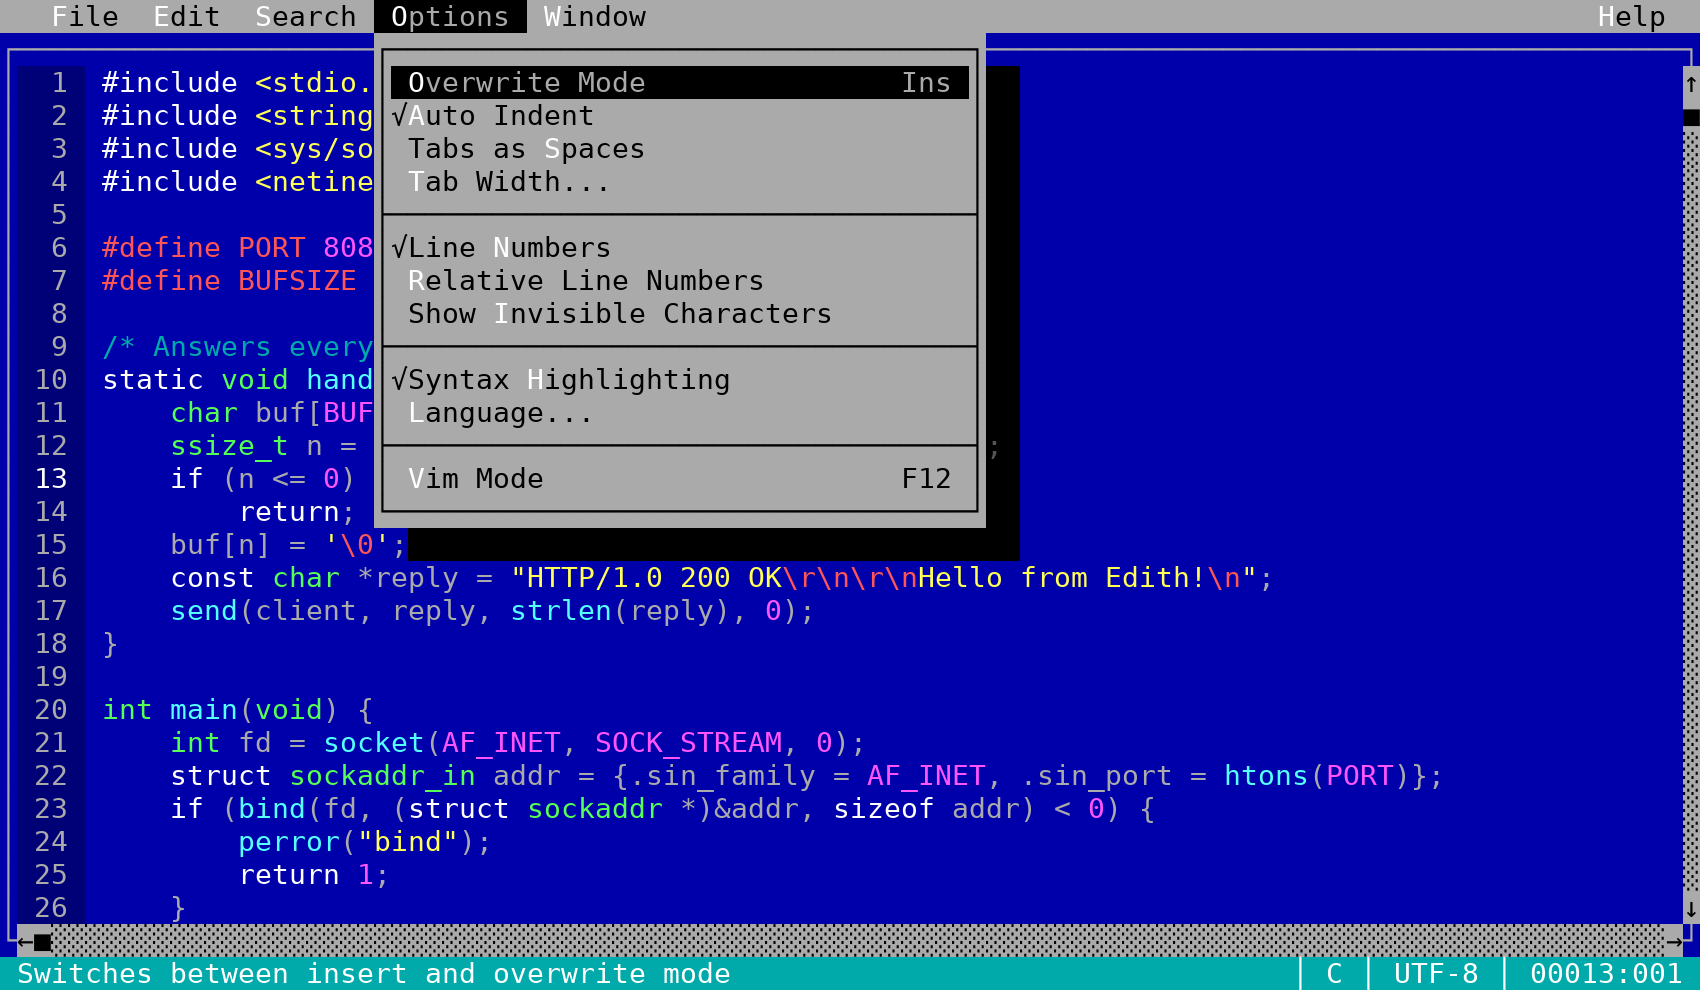
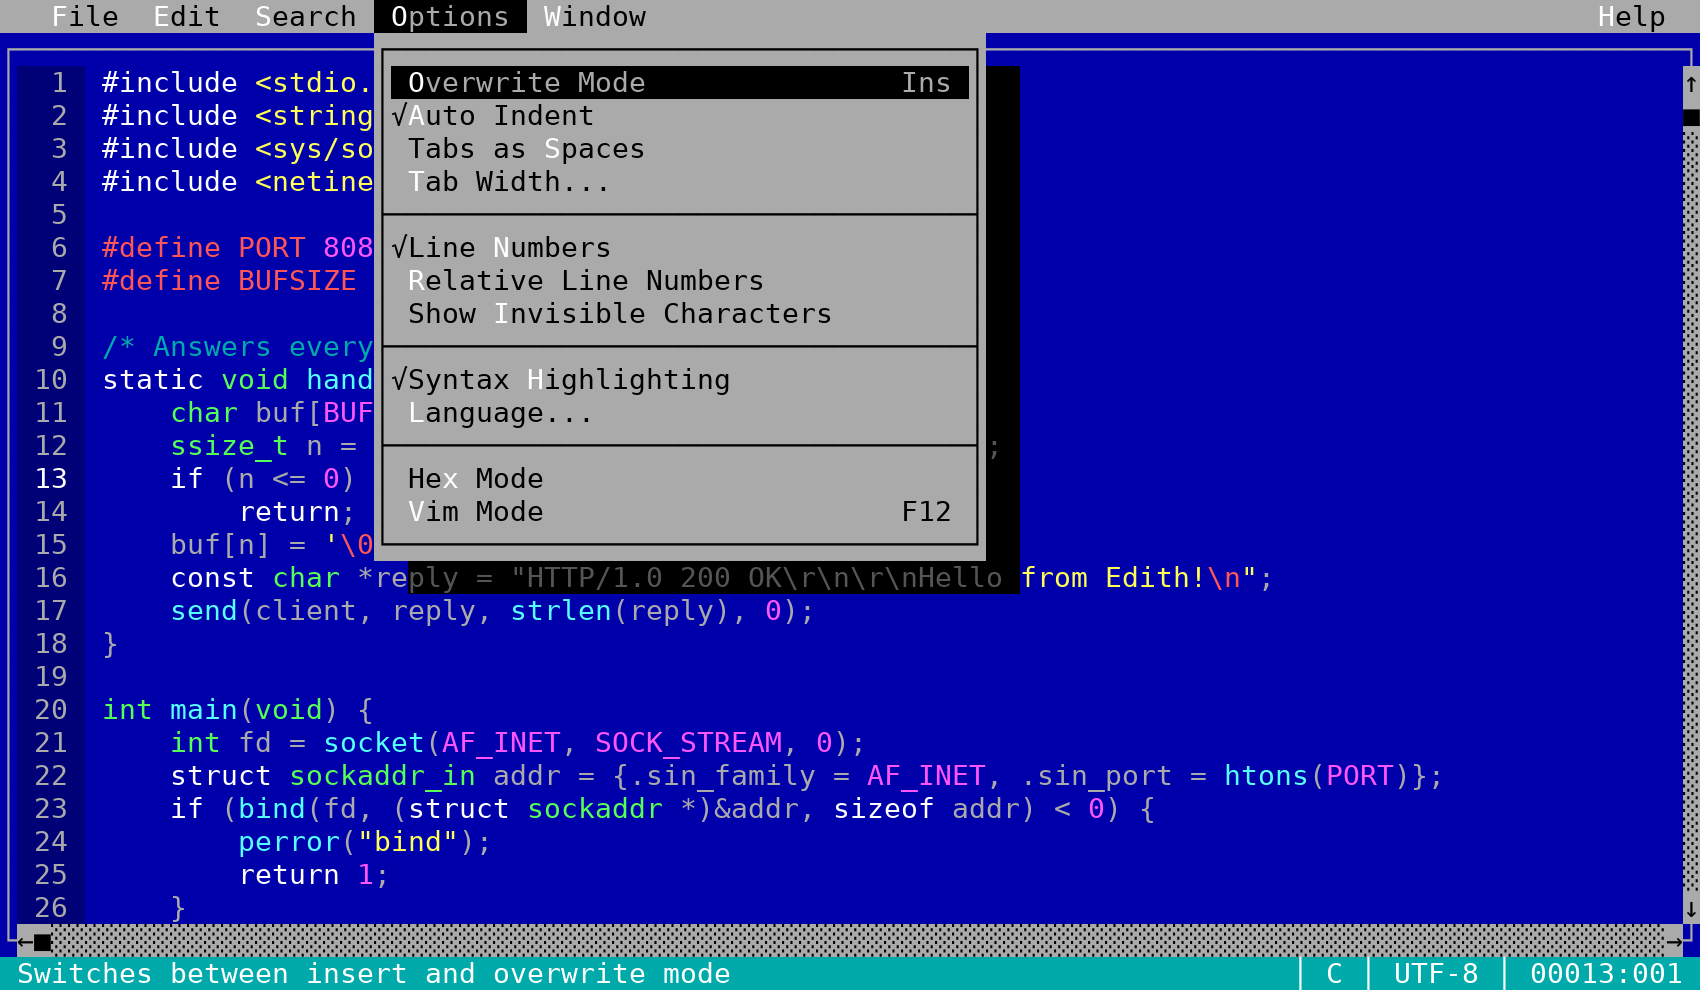
Version 1.3.0
Screenshot of the Options menu and the demo video with Hex Mode.

Changed region(s): [[0.2182, 0.4545, 0.6235, 0.6061]]

diff --git a/site/index.html b/site/index.html
@@ -225,7 +225,7 @@
       </p>
       <div class="actions">
         <a class="button primary" href="#install">Install</a>
-        <a class="button" href="https://github.com/dlehmann/edith/releases/latest">Download 1.2.0</a>
+        <a class="button" href="https://github.com/dlehmann/edith/releases/latest">Download 1.3.0</a>
         <a class="button" href="https://github.com/dlehmann/edith">Source code</a>
       </div>
     </div>
@@ -353,13 +353,13 @@
         <div class="box">
           <h3>Any Linux</h3>
           <p>The static binary runs on every distribution:</p>
-          <div class="cmd"><pre><span class="p">$ </span>curl -LO https://github.com/dlehmann/edith/releases/download/v1.2.0/edith-1.2.0-linux-x86_64.tar.gz
-<span class="p">$ </span>tar -xzf edith-1.2.0-linux-x86_64.tar.gz
-<span class="p">$ </span>sudo install -m755 edith-1.2.0-linux-x86_64/edith /usr/local/bin/</pre></div>
+          <div class="cmd"><pre><span class="p">$ </span>curl -LO https://github.com/dlehmann/edith/releases/download/v1.3.0/edith-1.3.0-linux-x86_64.tar.gz
+<span class="p">$ </span>tar -xzf edith-1.3.0-linux-x86_64.tar.gz
+<span class="p">$ </span>sudo install -m755 edith-1.3.0-linux-x86_64/edith /usr/local/bin/</pre></div>
           <p style="margin-top:16px">Or the AppImage, without installing:</p>
-          <div class="cmd"><pre><span class="p">$ </span>curl -LO https://github.com/dlehmann/edith/releases/download/v1.2.0/Edith-1.2.0-x86_64.AppImage
-<span class="p">$ </span>chmod +x Edith-1.2.0-x86_64.AppImage
-<span class="p">$ </span>./Edith-1.2.0-x86_64.AppImage file.txt</pre></div>
+          <div class="cmd"><pre><span class="p">$ </span>curl -LO https://github.com/dlehmann/edith/releases/download/v1.3.0/Edith-1.3.0-x86_64.AppImage
+<span class="p">$ </span>chmod +x Edith-1.3.0-x86_64.AppImage
+<span class="p">$ </span>./Edith-1.3.0-x86_64.AppImage file.txt</pre></div>
         </div>
         <div class="box">
           <h3>From source</h3>
@@ -398,7 +398,7 @@
 
 <footer>
   <div class="wrap">
-    <span>Edith 1.2.0</span>
+    <span>Edith 1.3.0</span>
     <span>MIT License</span>
     <a href="https://github.com/dlehmann/edith/issues">Report a bug</a>
     <a class="right" href="impressum.html" lang="de">Impressum / Datenschutz</a>

diff --git a/src/version.h b/src/version.h
@@ -1,4 +1,4 @@
 #pragma once
 // The version of Edith (Semantic Versioning, see CHANGELOG.md).
 
-#define EDITH_VERSION "1.2.0"
+#define EDITH_VERSION "1.3.0"

diff --git a/CHANGELOG.md b/CHANGELOG.md
@@ -6,6 +6,12 @@ Write each entry on one line: the section of a version becomes the release notes
 
 ## [Unreleased]
 
+## [1.3.0] - 2026-10-28
+
+### Added
+
+- Hex mode (Options > Hex Mode, `edith --hex`): shows and edits the bytes of a file in hexadecimal and as characters, with overwrite and insert, undo, the clipboard, Find for text or hex bytes and Go to Offset; binary files are opened in hex mode automatically, and the menu entries that only apply to text are grayed out.
+
 ## [1.2.0] - 2026-10-20
 
 ### Added
